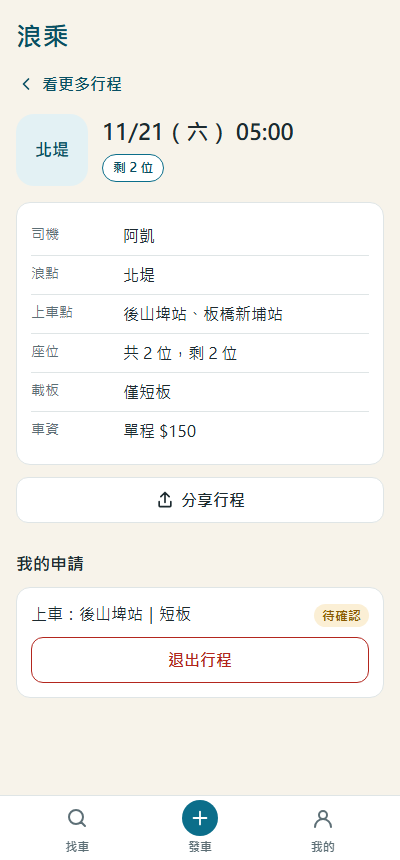
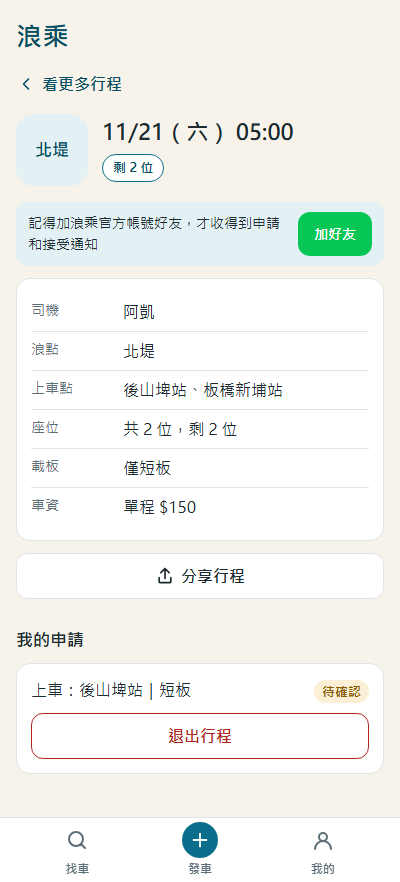
Show a reminder to add the official account as a friend (#17)
Without the friend add, no push ever arrives and nothing tells the user.
Per PR-FRIEND-01 the reminder「記得加浪乘官方帳號好友，才收得到申請和接受
通知」now shows to every logged-in user (no friendship detection):
- at the top of 我的, every time
- on the trip page right after publishing a trip, once
- on the trip page right after sending a request, once

When LINE_OA_BASIC_ID is set, a 加好友 button links to
https://line.me/R/ti/p/%40<id>; the URL is built on the server and sent
via /api/config. Without it only the text shows and the server still
starts. Documented in .env.example and docs/deploy-fly.md.

Tests: PR-FRIEND-01 config URL set/unset, and the frontend copy with no
promise that notifications always arrive. UAT TC-FRIEND-01..04 automated
with screenshots; TC-FRIEND-05 verified on a phone (the account was
already a friend, so LINE opened the chat).

Also adds the LINE cover image to brand/.

npm test: 71 pass. npm run uat: 54 pass, 4 partial, 0 fail.

diff --git a/public/app.js b/public/app.js
@@ -24,6 +24,8 @@ let devLogin = false;
 let config = null;
 // 重新整理畫面後要顯示在頁首的一次性訊息（例如「行程已滿」），下一次 mount 時取用並清掉
 let flash = null;
+// 剛發布行程或送出申請：下一次打開行程頁時顯示加好友提醒（PR-FRIEND-01），顯示一次就清掉
+let friendNudge = false;
 
 // replaceChildren 會把陣列和 null 印成文字，所以畫面一律經過這裡攤平
 function mount(...children) {
@@ -552,6 +554,7 @@ async function newTripPage() {
               meetingPoint: data.get('meetingPoint'),
             },
           });
+          friendNudge = true;
           go(`/trips/${trip.id}`);
         } catch (error) {
           button.disabled = false;
@@ -751,6 +754,7 @@ function applyForm(trip) {
             method: 'POST',
             body: { pickup: data.get('pickup'), boardType: data.get('boardType') },
           });
+          friendNudge = true;
           render();
         } catch (error) {
           button.disabled = false;
@@ -893,6 +897,8 @@ async function tripPage(id) {
     icon('back'),
     navigatedInApp ? '返回' : '看更多行程',
   );
+  const nudge = friendNudge && me ? friendReminder() : null;
+  friendNudge = false;
   mount(
     back,
     h(
@@ -901,6 +907,7 @@ async function tripPage(id) {
       spotTile(trip.spots, 'spot-tile spot-tile-lg'),
       h('div', { class: 'trip-hero-text' }, h('h1', {}, `${formatDate(trip.date)} ${trip.time}`), tripBadge(trip)),
     ),
+    nudge,
     h(
       'div',
       { class: 'card' },
@@ -1005,6 +1012,7 @@ async function mePage() {
   const logoutSlot = h('div');
   mount(
     h('h1', {}, `${me.name} 的共乘`),
+    friendReminder(),
     h('h2', {}, '接下來'),
     upcoming.length
       ? h('div', { class: 'rows' }, upcoming.map(activityCard))
@@ -1030,6 +1038,17 @@ async function mePage() {
     ),
     logoutSlot,
     legalFooter(),
+  );
+}
+
+// 加官方帳號好友提醒（PR-FRIEND-01）：沒加好友就收不到任何推播，而且系統偵測不到，所以對所有登入者一律顯示。
+// 有設定官方帳號 ID 才附「加好友」按鈕；文案不能保證通知必達（docs/user-stories.md 不要說的話）
+function friendReminder() {
+  return h(
+    'div',
+    { class: 'notice friend-reminder', role: 'status' },
+    h('p', {}, '記得加浪乘官方帳號好友，才收得到申請和接受通知'),
+    config?.addFriendUrl ? h('a', { class: 'button line-button', href: config.addFriendUrl }, '加好友') : null,
   );
 }
 

diff --git a/test/friend.test.js b/test/friend.test.js
@@ -1,0 +1,27 @@
+import assert from 'node:assert/strict';
+import { test } from 'node:test';
+import { startApp } from './helpers.js';
+
+test('PR-FRIEND-01 有設定官方帳號 ID 時，前端設定帶出加好友網址', async (t) => {
+  const { client } = await startApp(t, { lineOaBasicId: '@abc1234' });
+  const { body } = await client().get('/api/config');
+  // @ 編碼成 %40，是 LINE 文件寫的加好友網址格式
+  assert.equal(body.addFriendUrl, 'https://line.me/R/ti/p/%40abc1234');
+});
+
+test('PR-FRIEND-01 沒設定官方帳號 ID 時，前端設定照常回應且沒有加好友網址', async (t) => {
+  for (const lineOaBasicId of [undefined, '', '   ']) {
+    const { client } = await startApp(t, { lineOaBasicId });
+    const { status, body } = await client().get('/api/config');
+    assert.equal(status, 200);
+    assert.equal(body.addFriendUrl, undefined, `設定為 ${JSON.stringify(lineOaBasicId)} 時不該有網址`);
+  }
+});
+
+test('PR-FRIEND-01 前端有加好友提醒，且不承諾一定收得到', async (t) => {
+  const { client } = await startApp(t);
+  const { text } = await client().get('/app.js');
+  assert.match(text, /記得加浪乘官方帳號好友，才收得到申請和接受通知/);
+  // docs/user-stories.md「宣傳時不要說的話」
+  assert.doesNotMatch(text, /一定收得到/);
+});

diff --git a/src/app.js b/src/app.js
@@ -74,8 +74,19 @@ function readJson(req) {
   });
 }
 
-export function createApp({ db, line, baseUrl, devLogin = false, supportEmail, now = () => Date.now() }) {
+export function createApp({
+  db,
+  line,
+  baseUrl,
+  devLogin = false,
+  supportEmail,
+  lineOaBasicId,
+  now = () => Date.now(),
+}) {
   const service = createService(db, { now });
+  // PR-FRIEND-01：官方帳號加好友網址。@ 編碼成 %40 是 LINE 文件的寫法；沒設定時前端只顯示文字提醒
+  const oaId = lineOaBasicId?.trim();
+  const addFriendUrl = oaId ? `https://line.me/R/ti/p/${encodeURIComponent(oaId)}` : undefined;
   const secure = baseUrl.startsWith('https://');
   const cookieFlags = `Path=/; HttpOnly; SameSite=Lax${secure ? '; Secure' : ''}`;
   const tripUrl = (trip) => `${baseUrl}/trips/${trip.id}`;
@@ -150,6 +161,7 @@ export function createApp({ db, line, baseUrl, devLogin = false, supportEmail, n
         boardTypes: BOARD_TYPES,
         boardAllowed: BOARD_ALLOWED,
         supportEmail,
+        addFriendUrl,
       });
     }
     if (method === 'GET' && path === '/api/legal') {

diff --git a/test/helpers.js b/test/helpers.js
@@ -18,7 +18,7 @@ export const validTrip = (overrides = {}) => ({
 
 // 透過真實 HTTP 測試：這是專案的接縫，測試不碰內部函式。
 // 回傳的 service 只用來斷言 HTTP 看不到的持久化狀態（例如同意條款紀錄），不要拿來建資料或取代 HTTP 操作
-export async function startApp(t, { line: lineOverrides = {}, devLogin = true, supportEmail } = {}) {
+export async function startApp(t, { line: lineOverrides = {}, devLogin = true, supportEmail, lineOaBasicId } = {}) {
   const clock = { now: NOW };
   const pushes = [];
   const line = {
@@ -35,6 +35,7 @@ export async function startApp(t, { line: lineOverrides = {}, devLogin = true, s
     baseUrl: 'http://test.local',
     devLogin,
     supportEmail,
+    lineOaBasicId,
     now: () => clock.now,
   });
   const server = createServer(app.handler);

diff --git a/public/style.css b/public/style.css
@@ -771,6 +771,24 @@ button.danger:hover:not(:disabled) {
   color: var(--danger);
 }
 
+/* 加官方帳號好友提醒（PR-FRIEND-01）：文字在左、加好友按鈕在右，窄螢幕時按鈕換到下一行 */
+.friend-reminder {
+  display: flex;
+  flex-wrap: wrap;
+  align-items: center;
+  gap: 8px 12px;
+}
+
+.friend-reminder p {
+  flex: 1 1 12em;
+  margin: 0;
+}
+
+.friend-reminder .button {
+  flex: none;
+  padding: 8px 16px;
+}
+
 .contact {
   margin-top: 8px;
   padding: 8px 10px;

diff --git a/src/server.js b/src/server.js
@@ -29,7 +29,14 @@ const line = createLineClient({
   baseUrl,
 });
 const db = openDb(env.DB_PATH ?? 'data/carpool.db');
-const { handler } = createApp({ db, line, baseUrl, devLogin, supportEmail });
+const { handler } = createApp({
+  db,
+  line,
+  baseUrl,
+  devLogin,
+  supportEmail,
+  lineOaBasicId: env.LINE_OA_BASIC_ID,
+});
 
 const server = createServer(handler);
 server.on('error', (error) => {

diff --git a/docs/uat/report-2026-11-20-run-A.md b/docs/uat/report-2026-11-20-run-A.md
@@ -4,7 +4,7 @@
 - **方式**：無頭 Edge＋Chrome DevTools Protocol 實際操作畫面（點按鈕、填表單），手機尺寸 400px 寬
 - **環境**：環境 L（`DEV_LOGIN=1`），獨立測試伺服器 `localhost:3011`、每個場景一個全新資料庫；推播 token 清空，推播文字只印在伺服器 log、沒有送出真推播
 - **角色**：每個角色一個獨立瀏覽器環境（cookie 不共用）
-- **結果**：✅ 49 通過　⚠ 4 部分　❌ 0 失敗
+- **結果**：✅ 54 通過　⚠ 4 部分　❌ 0 失敗
 
 > 截圖是每個案例最後一步的畫面，標示是誰的視角。
 
@@ -26,6 +26,9 @@
 | [TC-SHARE-05](#tc-share-05) | 發文文字不含私人資訊且只有一個標籤 | ✅ 通過 |
 | [TC-MEET-02](#tc-meet-02) | 不填集合點也能發布 | ✅ 通過 |
 | [TC-TRIP-10](#tc-trip-10) | 上一趟已取消仍會帶入 | ✅ 通過 |
+| [TC-FRIEND-02](#tc-friend-02) | 發布行程成功後提醒加好友 | ✅ 通過 |
+| [TC-FRIEND-02b](#tc-friend-02b) | （接續）重新整理後提醒消失，只出現一次 | ✅ 通過 |
+| [TC-FRIEND-01](#tc-friend-01) | 「我的」頁上方提醒加官方帳號好友 | ✅ 通過 |
 | [TC-FIND-08](#tc-find-08) | 首頁預設明天，一鍵切到全部日期 | ✅ 通過 |
 | [TC-FIND-01](#tc-find-01) | 全部日期列表由近到遠排序 | ✅ 通過 |
 | [TC-FIND-03](#tc-find-03) | 依日期篩選 | ✅ 通過 |
@@ -33,10 +36,12 @@
 | [TC-FIND-02](#tc-find-02) | 已取消的行程不出現在列表 | ✅ 通過 |
 | [TC-FIND-05](#tc-find-05) | 依浪點篩選，多浪點行程也會出現 | ✅ 通過 |
 | [TC-FIND-06](#tc-find-06) | 選沒有車的浪點 | ✅ 通過 |
+| [TC-FRIEND-04](#tc-friend-04) | 沒設定官方帳號 ID 時只有文字提醒 | ✅ 通過 |
 | [TC-FIND-09](#tc-find-09) | 明天沒有行程時提示並提供切換 | ✅ 通過 |
 | [TC-REQ-02](#tc-req-02) | 沒選上車點或板型無法申請 | ✅ 通過 |
 | [TC-REQ-12](#tc-req-12) | 僅短板行程可以帶短板（選單部分） | ✅ 通過 |
 | [TC-REQ-01](#tc-req-01) | 乘客申請行程 | ✅ 通過 |
+| [TC-FRIEND-03](#tc-friend-03) | 送出申請成功後提醒加好友 | ✅ 通過 |
 | [TC-REQ-11](#tc-req-11) | 不能重複申請同一行程 | ✅ 通過 |
 | [TC-CANCEL-03](#tc-cancel-03) | 乘客看不到取消行程按鈕 | ✅ 通過 |
 | [TC-REQ-10](#tc-req-10) | 司機不能申請自己的行程 | ✅ 通過 |
@@ -234,6 +239,37 @@
 
 <img src="TC-TRIP-10.png" width="300" alt="TC-TRIP-10 截圖">
 
+### TC-FRIEND-02
+
+**發布行程成功後提醒加好友** — ✅ 通過
+
+- **期望**：發布後的行程頁顯示加好友提醒與「加好友」按鈕；重新整理後提醒消失（只在剛發布時出現一次）
+
+截圖（司機阿凱 的畫面）：
+
+<img src="TC-FRIEND-02.png" width="300" alt="TC-FRIEND-02 截圖">
+
+### TC-FRIEND-02b
+
+**（接續）重新整理後提醒消失，只出現一次** — ✅ 通過
+
+- **期望**：發布後的行程頁顯示加好友提醒與「加好友」按鈕；重新整理後提醒消失（只在剛發布時出現一次）
+- **備註**：補充：TC-FRIEND-02 的步驟 2，重新整理後提醒消失。
+
+截圖（司機阿凱 的畫面）：
+
+<img src="TC-FRIEND-02b.png" width="300" alt="TC-FRIEND-02b 截圖">
+
+### TC-FRIEND-01
+
+**「我的」頁上方提醒加官方帳號好友** — ✅ 通過
+
+- **期望**：標題下方顯示「記得加浪乘官方帳號好友，才收得到申請和接受通知」與「加好友」按鈕；按鈕連到 `https://line.me/R/ti/p/%40<官方帳號 ID>`
+
+截圖（司機阿凱 的畫面）：
+
+<img src="TC-FRIEND-01.png" width="300" alt="TC-FRIEND-01 截圖">
+
 ### TC-FIND-08
 
 **首頁預設明天，一鍵切到全部日期** — ✅ 通過
@@ -305,6 +341,16 @@
 
 <img src="TC-FIND-06.png" width="300" alt="TC-FIND-06 截圖">
 
+### TC-FRIEND-04
+
+**沒設定官方帳號 ID 時只有文字提醒** — ✅ 通過
+
+- **期望**：顯示加好友提醒文字，但沒有「加好友」按鈕
+
+截圖（司機阿凱 的畫面）：
+
+<img src="TC-FRIEND-04.png" width="300" alt="TC-FRIEND-04 截圖">
+
 ### TC-FIND-09
 
 **明天沒有行程時提示並提供切換** — ✅ 通過
@@ -344,6 +390,16 @@
 截圖（乘客小魚 的畫面）：
 
 <img src="TC-REQ-01.png" width="300" alt="TC-REQ-01 截圖">
+
+### TC-FRIEND-03
+
+**送出申請成功後提醒加好友** — ✅ 通過
+
+- **期望**：出現小魚的申請卡，同時顯示加好友提醒與「加好友」按鈕
+
+截圖（乘客小魚 的畫面）：
+
+<img src="TC-FRIEND-03.png" width="300" alt="TC-FRIEND-03 截圖">
 
 ### TC-REQ-11
 

diff --git a/docs/uat-cases.md b/docs/uat-cases.md
@@ -1,6 +1,6 @@
 # 浪乘 驗收案例（UAT）
 
-來源：Issue #1（MVP 規格，PR-AUTH／TRIP／FIND／REQ／CONTACT／NOTIFY／CANCEL／METRIC）、Issue #8（PR-TRIP-05、PR-MEET、PR-SHARE），以及使用者故事「司機阿凱」「乘客小魚」（2026-11-13 對話整理）。
+來源：Issue #1（MVP 規格，PR-AUTH／TRIP／FIND／REQ／CONTACT／NOTIFY／CANCEL／METRIC）、Issue #8（PR-TRIP-05、PR-MEET、PR-SHARE）、Issue #10（PR-FRIEND），以及使用者故事「司機阿凱」「乘客小魚」（2026-11-13 對話整理）。
 
 **編號規則**：`TC-<AREA>-NN` 一經發出即凍結；退役的案例保留段落、狀態改為 `retired`，編號永不重發。證據目錄 `docs/uat/` 以編號命名。
 
@@ -722,3 +722,64 @@
   1. 點「複製發文（FB／Threads）」，貼到記事本
 - **期望結果**：內容沒有 `akai-line`、沒有集合點文字、沒有備註；整段只有一個「#」
 - **最近判定**：通過（2026-11-20，自動化跑法 A，[截圖](uat/TC-SHARE-05.png)）
+
+## TC-FRIEND-01 — 「我的」頁上方提醒加官方帳號好友
+
+- **狀態**：active
+- **負責人**：Ching-Ya Chang
+- **來源**：PR-FRIEND-01
+- **角色**：乘客
+- **前置條件**：`.env` 設了 `LINE_OA_BASIC_ID`；小魚已登入
+- **步驟**：
+  1. 點下方「我的」
+- **期望結果**：標題下方顯示「記得加浪乘官方帳號好友，才收得到申請和接受通知」與「加好友」按鈕；按鈕連到 `https://line.me/R/ti/p/%40<官方帳號 ID>`
+- **最近判定**：通過（2026-11-20，自動化跑法 A，[截圖](uat/TC-FRIEND-01.png)）
+
+## TC-FRIEND-02 — 發布行程成功後提醒加好友
+
+- **狀態**：active
+- **負責人**：Ching-Ya Chang
+- **來源**：PR-FRIEND-01／司機阿凱
+- **角色**：司機
+- **前置條件**：`.env` 設了 `LINE_OA_BASIC_ID`；阿凱已登入且已填聯絡方式
+- **步驟**：
+  1. 照標準行程發車
+  2. 在新行程頁重新整理
+- **期望結果**：發布後的行程頁顯示加好友提醒與「加好友」按鈕；重新整理後提醒消失（只在剛發布時出現一次）
+- **最近判定**：通過（2026-11-20，自動化跑法 A，[截圖](uat/TC-FRIEND-02.png)）
+
+## TC-FRIEND-03 — 送出申請成功後提醒加好友
+
+- **狀態**：active
+- **負責人**：Ching-Ya Chang
+- **來源**：PR-FRIEND-01／乘客小魚
+- **角色**：乘客
+- **前置條件**：`.env` 設了 `LINE_OA_BASIC_ID`；阿凱發了標準行程；小魚已登入且已填聯絡方式
+- **步驟**：
+  1. 小魚開行程頁，選上車點與板型，點「申請共乘」
+- **期望結果**：出現小魚的申請卡，同時顯示加好友提醒與「加好友」按鈕
+- **最近判定**：通過（2026-11-20，自動化跑法 A，[截圖](uat/TC-FRIEND-03.png)）
+
+## TC-FRIEND-04 — 沒設定官方帳號 ID 時只有文字提醒
+
+- **狀態**：active
+- **負責人**：Ching-Ya Chang
+- **來源**：PR-FRIEND-01
+- **角色**：乘客
+- **前置條件**：`.env` 沒有設定 `LINE_OA_BASIC_ID`；小魚已登入
+- **步驟**：
+  1. 點下方「我的」
+- **期望結果**：顯示加好友提醒文字，但沒有「加好友」按鈕
+- **最近判定**：通過（2026-11-20，自動化跑法 A，[截圖](uat/TC-FRIEND-04.png)）
+
+## TC-FRIEND-05 — 手機點「加好友」開到官方帳號
+
+- **狀態**：active
+- **負責人**：Ching-Ya Chang
+- **來源**：PR-FRIEND-01
+- **角色**：乘客
+- **前置條件**：環境 R；`.env` 設了正確的 `LINE_OA_BASIC_ID`；用手機開浪乘並登入
+- **步驟**：
+  1. 在「我的」頁點「加好友」
+- **期望結果**：手機跳到 LINE，開出浪乘官方帳號（Surfpool）：還不是好友的帳號看到加好友畫面；已經是好友的帳號會直接進聊天室，這也算通過。不能是錯誤頁或「找不到」
+- **最近判定**：通過（2026-11-21，手機實測：點「加好友」開到 Surfpool；測試帳號已是好友，所以直接進聊天室。尚未用非好友帳號看過加好友畫面）

diff --git a/docs/deploy-fly.md b/docs/deploy-fly.md
@@ -53,6 +53,12 @@
    fly secrets set SUPPORT_EMAIL=你的客服信箱
    ```
 
+   官方帳號的 Basic ID（含開頭的 `@`，在 LINE Official Account Manager 的帳號設定裡看得到）用來產生「加好友」按鈕。沒設定時網站只顯示文字提醒、沒有按鈕，伺服器照常啟動（PR-FRIEND-01）：
+
+   ```bash
+   fly secrets set LINE_OA_BASIC_ID=@你的官方帳號ID
+   ```
+
 6. **部署**：
 
    ```bash
